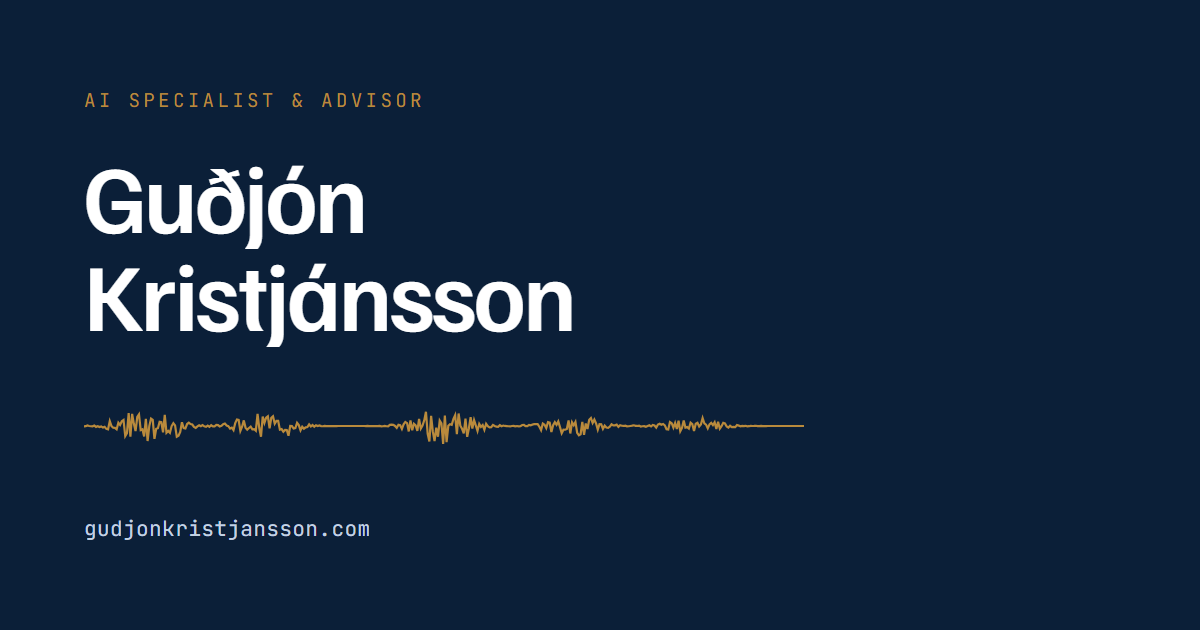
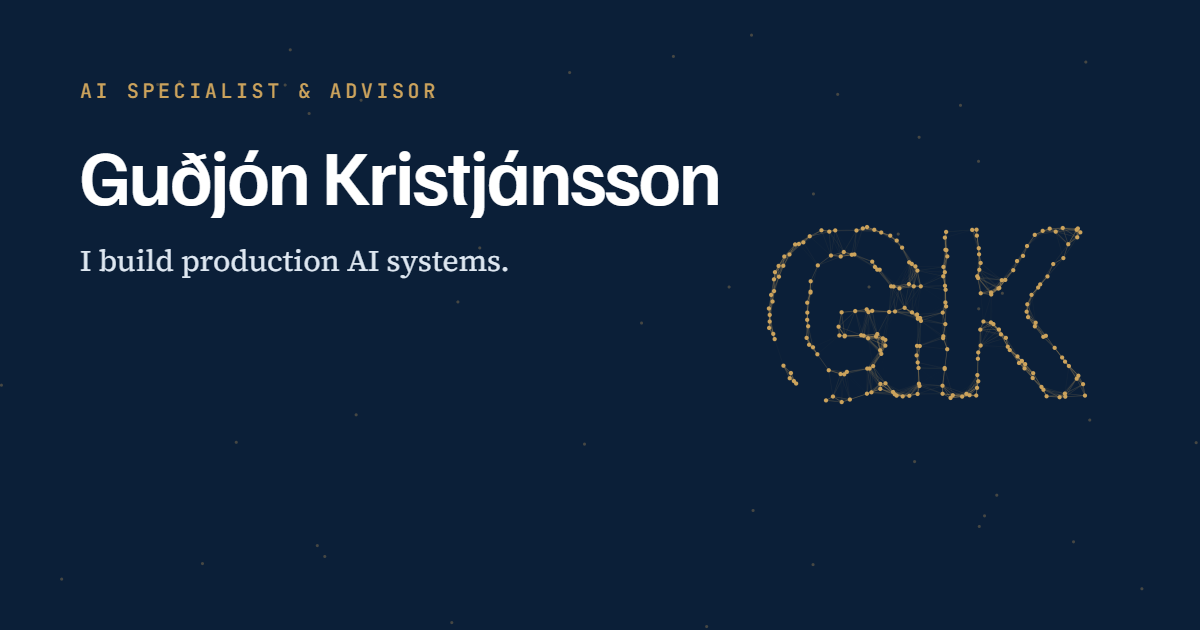
Give every project its own share card
Every page shared the same image. `npm run og` now draws one 1200x630
card per project, in both languages, plus the home card in each: the
title, the tagline, and the project's own constellation mark.

- scripts/og-cards.mjs bundles the site's shape painters into a page and
  samples them the way the site does, so a card's mark is the same mark
  the page shows. It drives the Edge or Chrome already installed
  (playwright-core, a dev dependency, downloads no browser).
- The 30 cards are committed under public/, not built on deploy, so the
  build needs no browser. Re-run the script when a project is added or
  its title or tagline changes.
- The post-build step and the SEO component point each page at its card:
  /og/<slug>.png, /og/is/<slug>.png, and the home card per language. A
  missing file falls back to the English home card, so a page never
  references an image that is not there.
- The old home card printed gudjonkristjansson.com, which is parked. The
  new one does not print a domain.

diff --git a/src/components/SEO.tsx b/src/components/SEO.tsx
@@ -10,7 +10,8 @@ interface SEOProps {
   image?: string;
 }
 
-const DEFAULT_IMAGE = `${SITE_URL}/og-image.png`;
+/** The home share card for each language; see scripts/og-cards.mjs. */
+const DEFAULT_IMAGE = { en: '/og-image.png', is: '/og/is/default.png' } as const;
 
 const SEO: React.FC<SEOProps> = ({ title, description, path = '/', image }) => {
   const { t, i18n } = useTranslation();
@@ -18,8 +19,9 @@ const SEO: React.FC<SEOProps> = ({ title, description, path = '/', image }) => {
   const fullTitle = title ? `${title} · ${siteTitle}` : `${siteTitle} — ${t('siteTagline')}`;
   const desc = description ?? t('metaDescription');
   const url = `${SITE_URL}${path}`;
-  const ogImage = image ?? DEFAULT_IMAGE;
   const lang = i18n.language || 'en';
+  // `image` is a path on this site, e.g. "/og/flybus-ai-chatbot.png".
+  const ogImage = SITE_URL + (image ?? DEFAULT_IMAGE[lang === 'is' ? 'is' : 'en']);
 
   return (
     <Helmet>

diff --git a/src/pages/ProjectDetailPage.tsx b/src/pages/ProjectDetailPage.tsx
@@ -40,6 +40,7 @@ const ProjectDetailPage: React.FC = () => {
         title={project.title[locale]}
         description={project.tagline[locale]}
         path={localizedHref(`/projects/${project.slug}`, locale)}
+        image={`/og${locale === 'is' ? '/is' : ''}/${project.slug}.png`}
       />
 
       <Band as="header" className="bg-navy-900 text-white">
